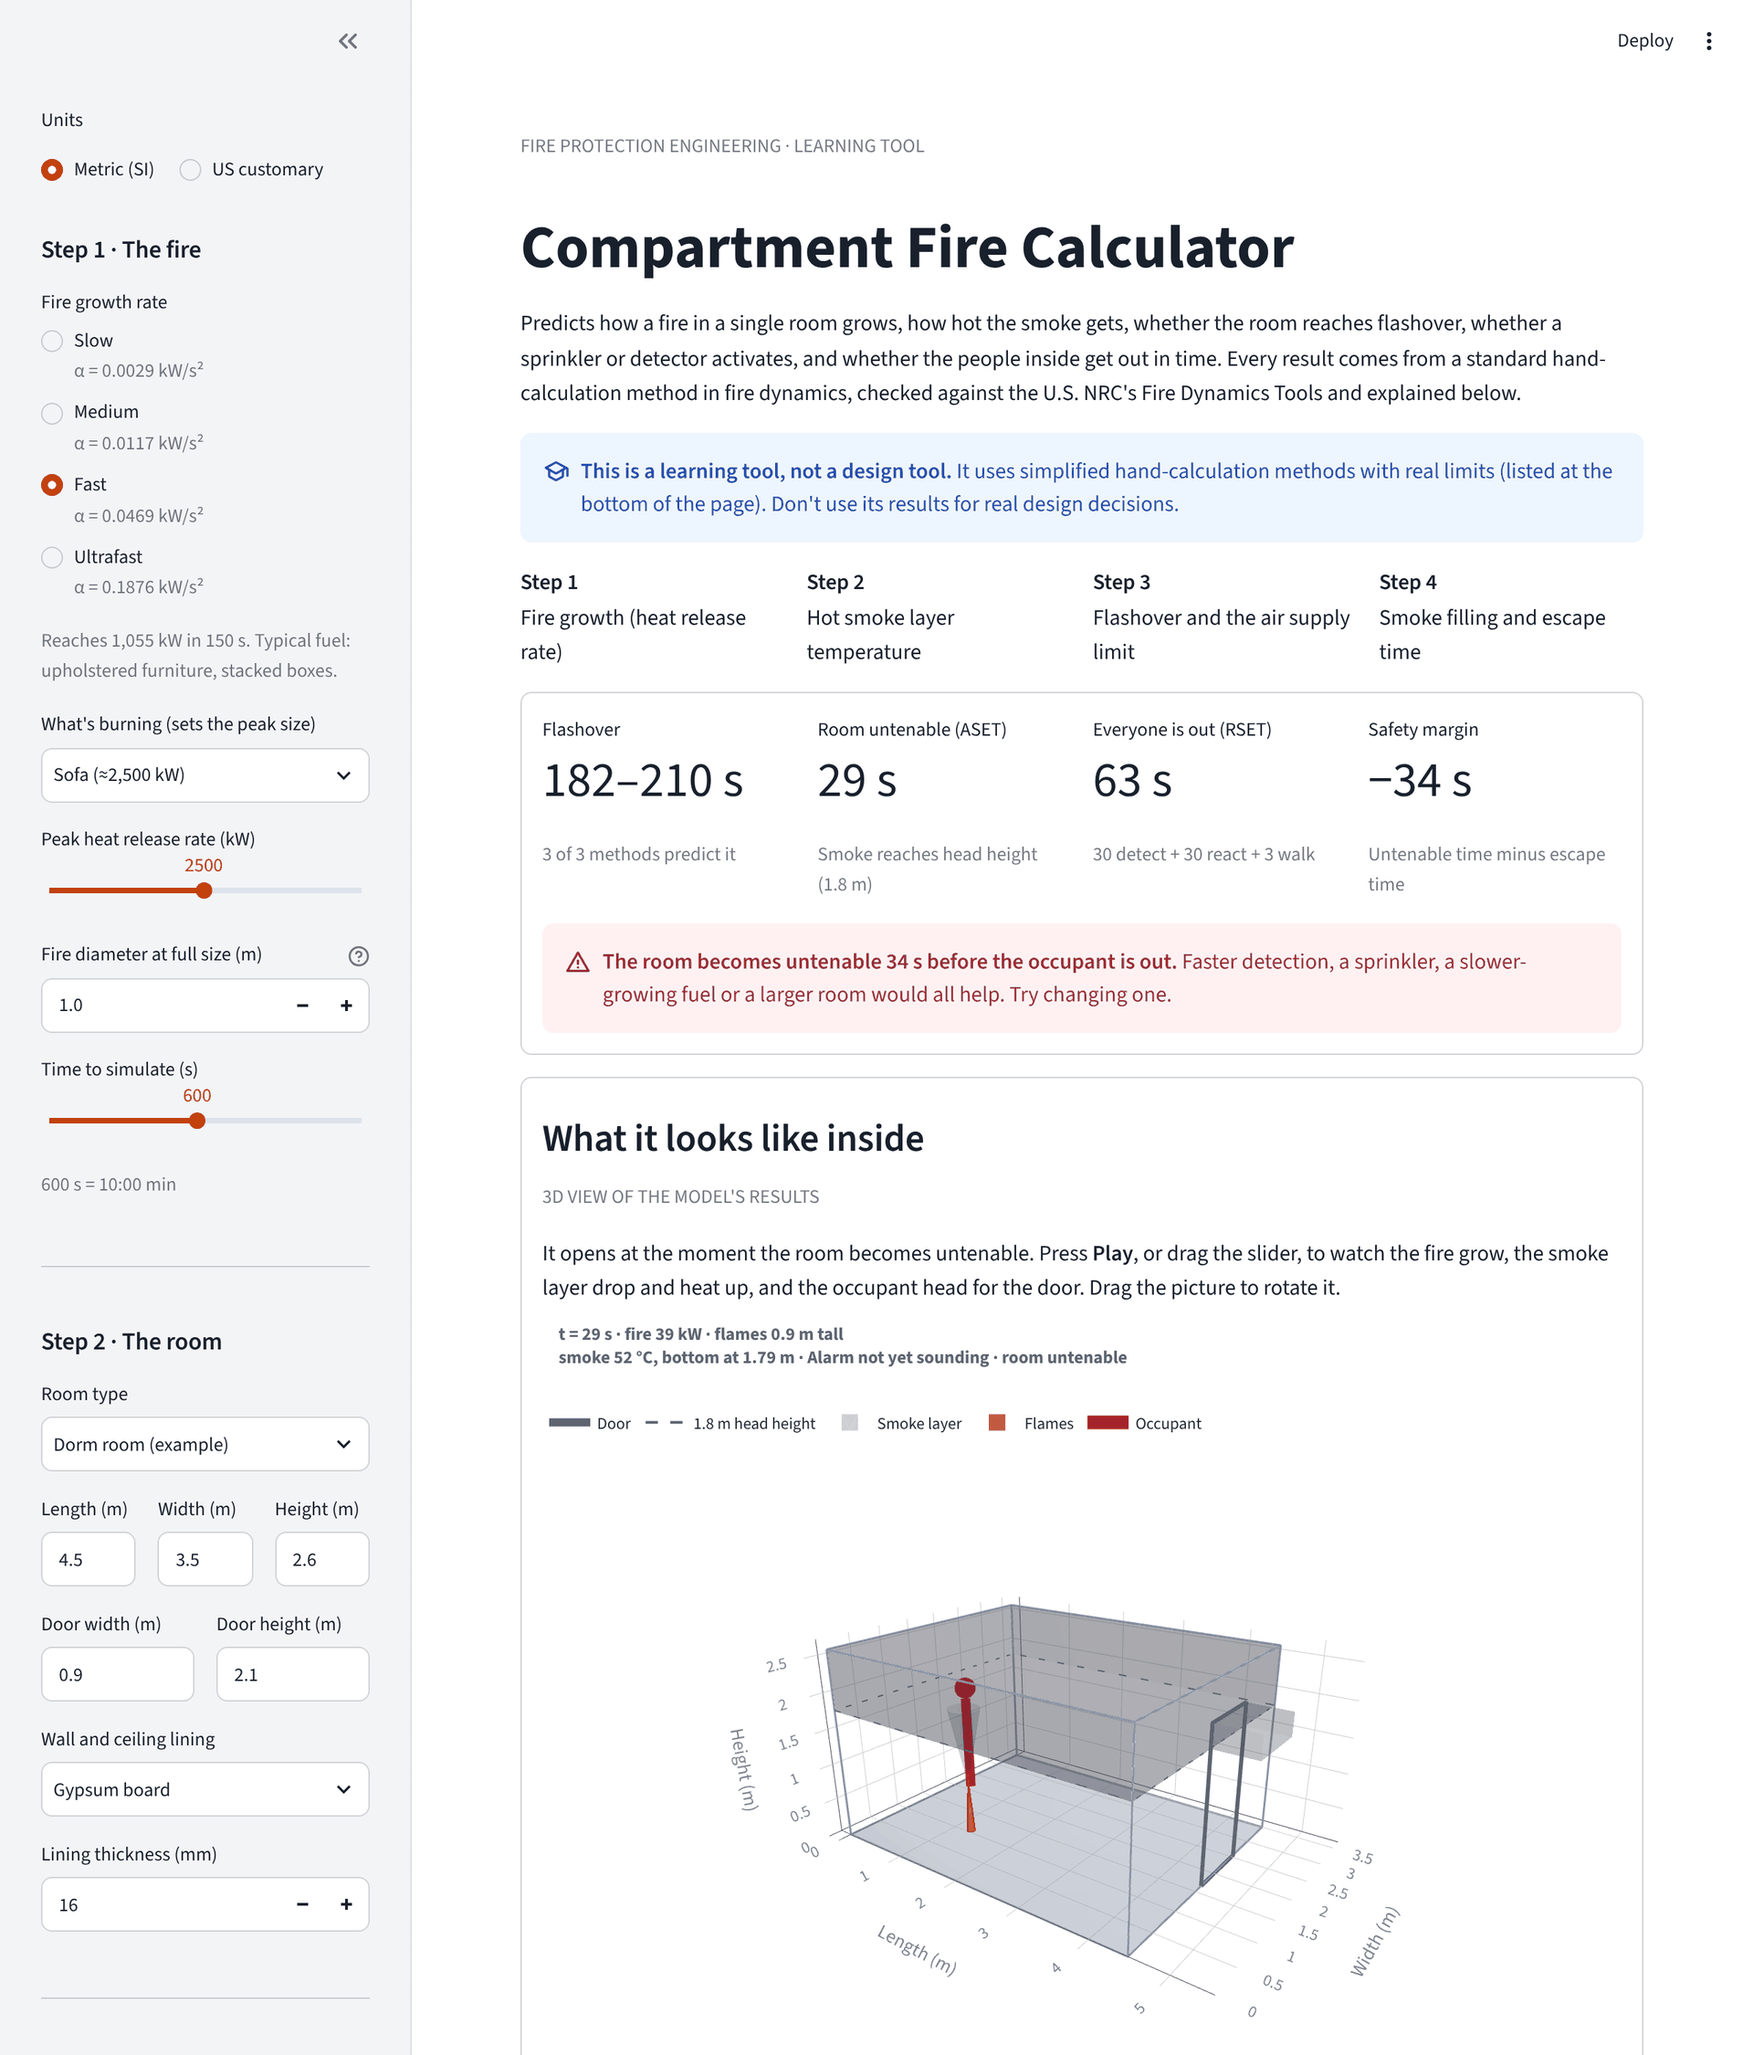
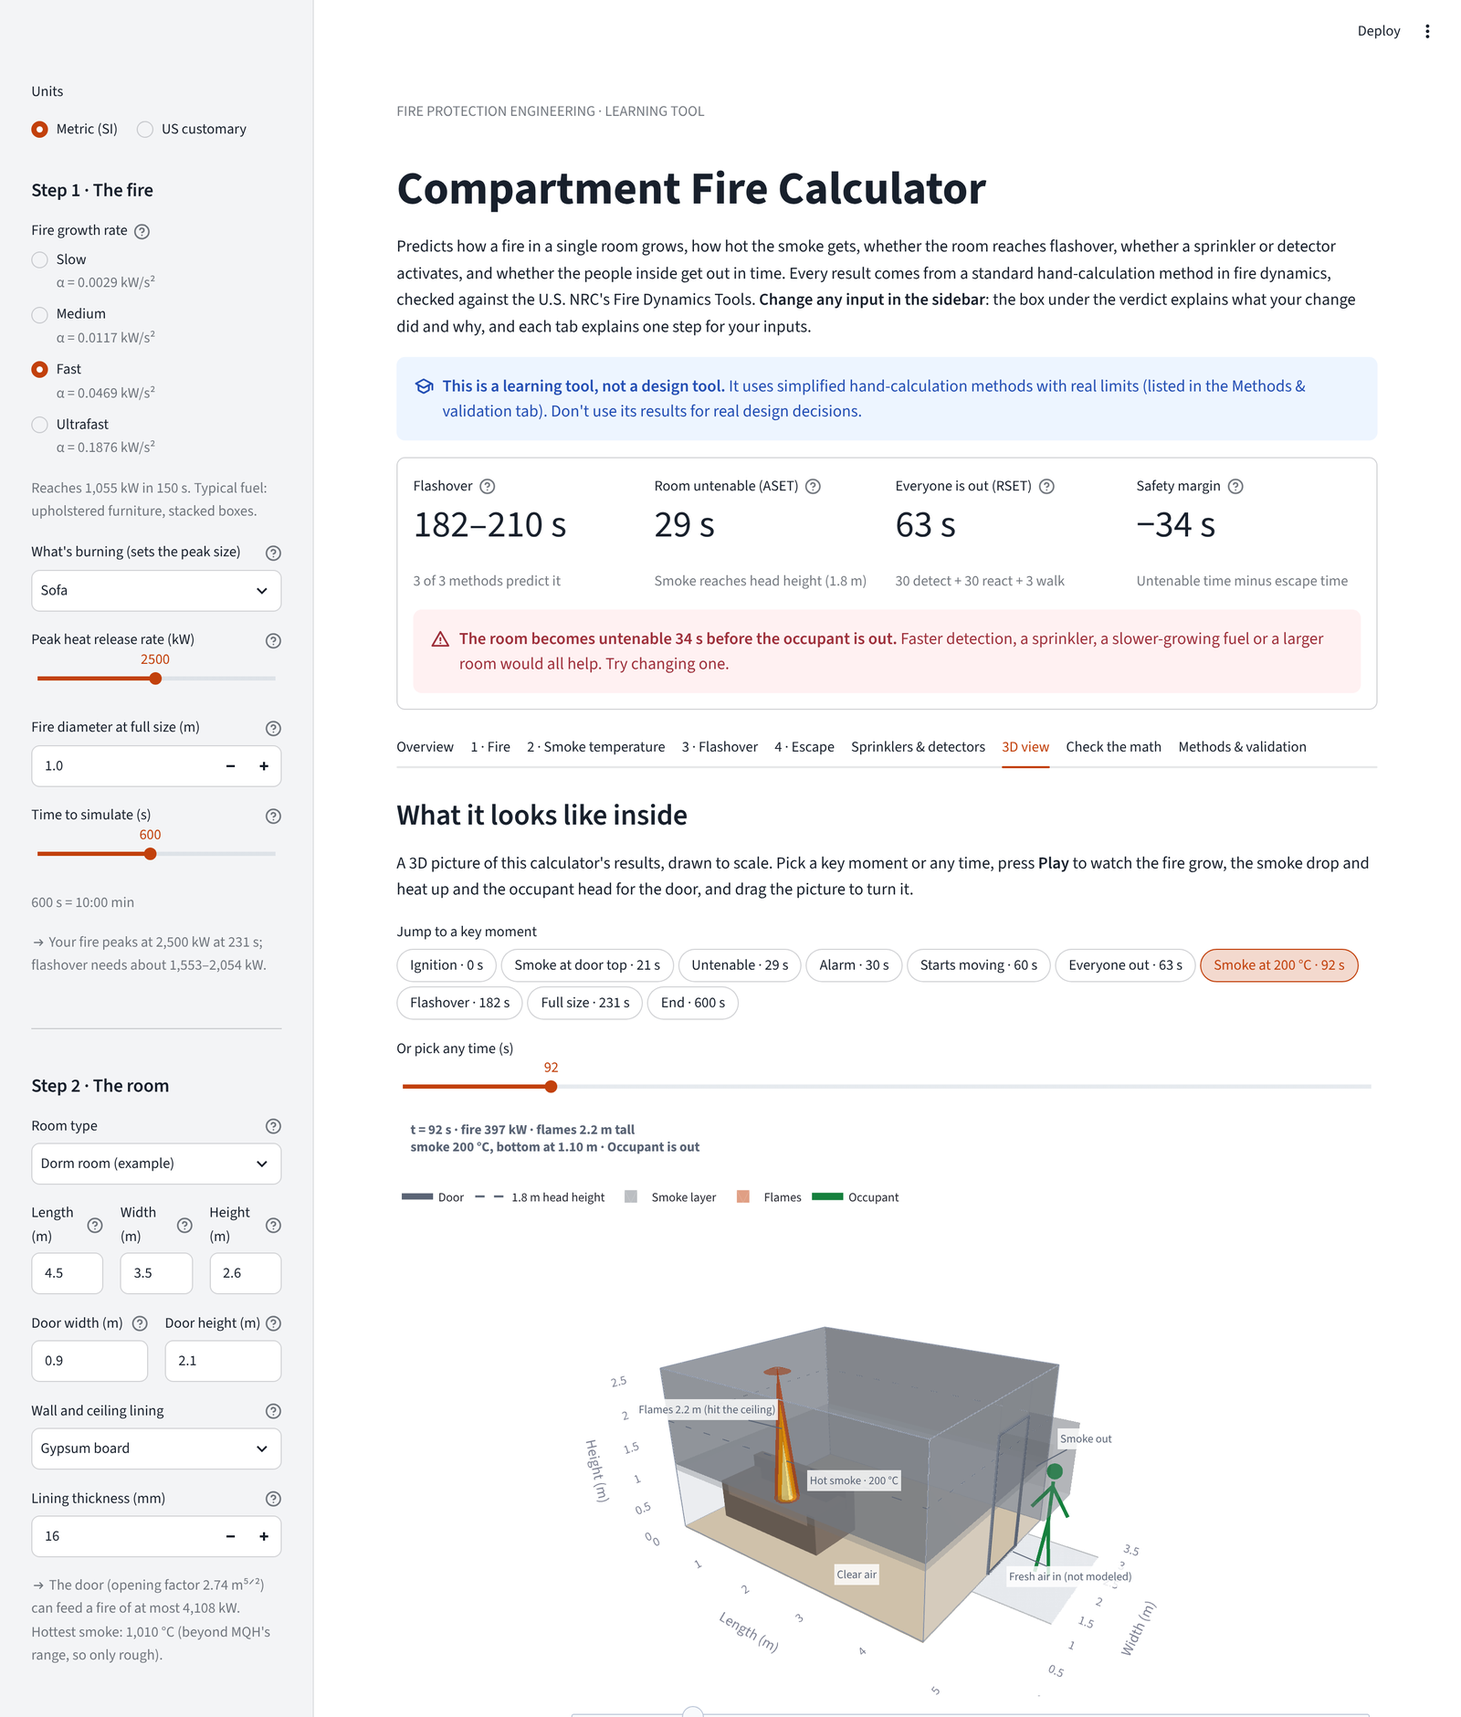
Document the interactive guide and update the screenshot
Claude-Session: https://claude.ai/code/session_01FzyF6Nd1jxLWUU99v1DaYr

diff --git a/README.md b/README.md
@@ -17,7 +17,7 @@ A first-year fire protection engineering project by **Dhruv Sirigiri**
 
 **Live app: https://compartment-fire-calculator.streamlit.app/**
 
-![The Compartment Fire Calculator: inputs, verdict and 3D room view](docs/screenshot.png)
+![The Compartment Fire Calculator: inputs, verdict, step tabs and the 3D room view at a key moment](docs/screenshot.png)
 
 ## What it does
 
@@ -35,19 +35,32 @@ customary units. The app works through four steps:
 It then shows:
 
 - **A verdict**: the flashover time range, when the room becomes untenable (ASET), when
-  everyone is out (RSET), and the safety margin between them. With a sprinkler, also its
-  activation time and what it changed (flashover and smoke temperature with and without it).
-- **A 3D view of the room** you can play like a video: the smoke layer dropping and
-  heating up, flames at Heskestad's flame height, smoke spilling out of the door, the
-  sprinkler spraying once it activates, and the occupant walking to the door. It draws the
-  model's results; it is not a 3D fire simulation (that would need CFD software such as
-  NIST's FDS).
-- **Interactive charts** of fire size, smoke and device temperatures, and smoke layer
-  height, the flashover methods table, and the numbers behind every chart.
-- **"Check the calculation by hand"**: every equation at a moment you choose, with the
-  scenario's numbers substituted in, so each line can be redone with a calculator.
-- **The NUREG-1805 validation table**, an explanation of every method, and an honest
-  section on how realistic the results are.
+  everyone is out (RSET), and the safety margin between them.
+- **"What your last change did"**: change any input and a box under the verdict lists
+  which results moved (before → after, and whether that is better or worse for the
+  people inside) and explains why, with the numbers from the equations (for example,
+  "the opening factor went from 2.74 to 5.48 m⁵ᐟ², so the Babrauskas threshold went from
+  2,054 to 4,108 kW"). One click undoes the change.
+- **One tab per step** (Fire, Smoke temperature, Flashover, Escape, and Sprinklers &
+  detectors). Each explains in plain language what that step shows for your inputs, has
+  its readouts and chart, **"Try this" buttons** that change one input so you can see what
+  it does, and the step's method and equations. Back and Next buttons make a guided tour.
+  A short note under each group of inputs in the sidebar also gives its current result.
+- **An overview** with each step's headline result and the key moments of the fire in
+  order (alarm, smoke at head height, flashover, ...), each with a button to see it in 3D.
+- **A 3D view of the room** you can play like a video: smoke colored by its temperature
+  (gray when warm, charcoal when very hot, glowing red above about 525 °C), flames at
+  Heskestad's flame height on the burning furniture, smoke spilling out of the door, the
+  sprinkler spraying once it activates, and the occupant walking to the door, with labels
+  pinned to the scene. Pick a key moment and the app describes what is happening at that
+  moment; a panel says what is calculated and what is only drawn. It is a picture of the
+  model's results, not a 3D fire simulation (that would need CFD software such as NIST's
+  FDS).
+- **"Check the math"**: every equation at a moment you choose, with the scenario's
+  numbers substituted in, so each line can be redone with a calculator, and the numbers
+  behind every chart.
+- **Methods & validation**: the NUREG-1805 validation table, an honest section on how
+  realistic the results are, the limitations and the sources.
 
 ## The methods
 
@@ -271,11 +284,13 @@ fire_model/          the physics, as pure functions (no user interface code), SI
   timeline.py        "first second at which something happens" helpers
   scenario.py        runs all the steps for one scenario
   validation.py      the NUREG-1805 comparisons (NRC inputs, answers and cells)
-app.py               the Streamlit web app: inputs, verdict, page layout
+app.py               the Streamlit web app: inputs, verdict, "what your last change did", tabs
+guide.py             plain-language explanations that follow the inputs: each step's result,
+                     what a change did and why, "Try this" suggestions, key moments
 charts.py            the 2D charts
 room_view.py         the 3D room view
 worked_example.py    "check the calculation by hand"
-explanations.py      the explanatory text, validation and realism sections
+explanations.py      the methods and equations of each step, validation, realism, sources
 units.py             metric / US customary conversions for display
 tests/               pytest tests, including every check value and NRC example
 docs/VALIDATION.md   the NUREG-1805 validation report

diff --git a/CLAUDE.md b/CLAUDE.md
@@ -18,7 +18,11 @@ The Python/Streamlit app is built and deployed at https://compartment-fire-calcu
 
 `index.html` is the original single-file prototype (HTML + vanilla JS). It is the reference implementation: with no sprinkler and no heat detector, the app must reproduce its results (see "Check values" below).
 
-Beyond the prototype the app has: sprinkler and heat detector activation; a metric / US customary unit switch (display only, the physics stays in SI); a 3D view (Heskestad flame height, plume, door spill, sprinkler spray, occupant); a "check the calculation by hand" section; and validation against the NUREG-1805 spreadsheets (`fire_model/validation.py`, `docs/VALIDATION.md`).
+Beyond the prototype the app has: sprinkler and heat detector activation; a metric / US customary unit switch (display only, the physics stays in SI); a 3D view (cutaway room with furniture, Heskestad flame height, smoke colored by temperature, door spill, sprinkler spray, occupant, labels pinned to the scene); a "check the calculation by hand" section; and validation against the NUREG-1805 spreadsheets (`fire_model/validation.py`, `docs/VALIDATION.md`).
+
+It is laid out as an interactive guide: the verdict, then a "What your last change did" box (which results moved, before → after, better or worse, and why, with Undo), then tabs: Overview (step headlines and key moments), one tab per step (explanation for the current inputs, readouts, chart, "Try this" buttons that change one input, the method and equations, Back/Next), Sprinklers & detectors, 3D view (key moments, a description of the chosen moment, what is calculated vs. only drawn), Check the math, and Methods & validation. A one-line result sits under each group of inputs in the sidebar. All of these sentences come from `guide.py`, built only from `fire_model` numbers.
+
+Streamlit notes (1.67): only the open tab is drawn (`st.tabs(..., on_change="rerun")` and `tab.open`), so widgets inside a tab use `persist_state="page"` to keep their value while it is closed. A menu (`selectbox`, `radio`) remembers its choice by its displayed label, so labels must never depend on the unit switch or on results (a unit in a fuel label once crashed the app after switching units); put such numbers in a caption.
 
 ## Target architecture (recommended)
 
@@ -30,7 +34,7 @@ Beyond the prototype the app has: sprinkler and heat detector activation; a metr
 
 Keep the physics independent of the UI so it can be tested and reused.
 
-As built: `fire_model/` also has `room.py` (geometry), `timeline.py` (first-time helpers), `scenario.py` (runs every step), `detection.py` (sprinklers and heat detectors) and `validation.py` (NUREG-1805 cases). The UI is split into `app.py` (inputs, verdict, layout), `charts.py`, `room_view.py` (3D), `worked_example.py`, `explanations.py` and `units.py`.
+As built: `fire_model/` also has `room.py` (geometry), `timeline.py` (first-time helpers), `scenario.py` (runs every step), `detection.py` (sprinklers and heat detectors) and `validation.py` (NUREG-1805 cases). The UI is split into `app.py` (inputs, verdict, change box, tabs), `guide.py` (plain-language explanations that follow the inputs), `charts.py`, `room_view.py` (3D), `worked_example.py`, `explanations.py` (each step's method and equations, validation, realism, sources) and `units.py`.
 
 ## The model
 
@@ -73,6 +77,7 @@ Ambient T_a = 20 °C. Head height for tenability = 1.8 m.
 
 ### Flame height (3D view and the flame-tip check only)
 - Heskestad: L = 0.235 Q^(2/5) − 1.02 D (NUREG-1805 Ch. 3), clipped at 0. Burning diameter grows with the fire, D = D_full √(Q/Q_peak) (a t-squared fire is steady spread at constant HRR per unit area, so area ∝ Q). D_full is a user input (default 1.0 m, an assumption).
+- The 3D view draws the flames from the top of the burning furniture (illustrative sizes per fuel, e.g. a 0.45 m sofa seat) and its description measures "reaches the ceiling" from there; the calculation itself keeps the fire at floor level (more plume entrainment, the cautious choice). Smoke color: gray to charcoal with temperature, glowing toward red above the Draper point (≈525 °C).
 
 ## Check values (the rebuilt model must match these)
 
